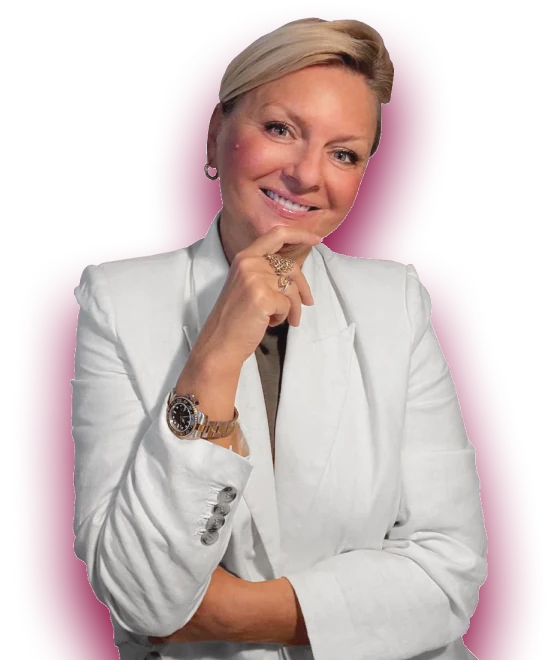
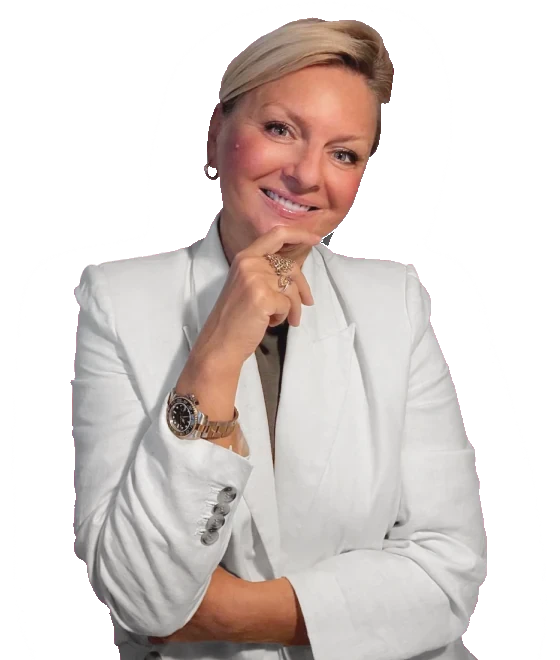
bf: палитра как у melrobbins.com
Жёлтый #FCE500 для кнопок и выделений, почти чёрный #212322 для шапки,
карточек и текста, тёплый #F4F4EE для подложек. Тариф 3 на жёлтом.
С фото в шапке убран малиновый ореол. Вёрстка и тексты без изменений.

Claude-Session: https://claude.ai/code/session_01AzVfGL1xKTqbXbbpfdZJSq

diff --git a/miniapps/bf/index.html b/miniapps/bf/index.html
@@ -4,7 +4,7 @@
 <meta charset="utf-8">
 <meta name="viewport" content="width=device-width, initial-scale=1, viewport-fit=cover">
 <meta name="robots" content="noindex, nofollow">
-<meta name="theme-color" content="#c2185b">
+<meta name="theme-color" content="#212322">
 <title>Чёрная пятница от Виолы Маро</title>
 <meta name="description" content="Интенсив и марафоны в записи по сниженной цене, доступ навсегда. 27–30 ноября.">
 <meta property="og:title" content="Чёрная пятница от Виолы Маро">
@@ -32,17 +32,17 @@
 
   :root {
     --fon: #ffffff;          /* фон страницы */
-    --text: #141414;         /* основной текст, 18 : 1 */
-    --muted: #5c5c5c;        /* второстепенный, 6,7 : 1 */
-    --pink: #ff1673;         /* только кнопки покупки и цены */
-    --pink-dark: #c2125a;    /* мелкий «розовый» текст на светлом, 5,2 : 1 */
-    --akcent: #c2125a;       /* ссылки и отметки (для страниц документов тоже) */
-    --mag1: #c2185b;         /* малиновый градиент: от */
-    --mag2: #8e0f3f;         /*                      до */
-    --black: #111111;        /* карточки программ */
-    --soft: #f4f4f4;         /* подложки отзывов, окна */
-    --line: #e6e6e6;         /* тонкие линии */
-    --wine: #ff1673; --wine-text: #ffffff;
+    --text: #212322;         /* основной текст (палитра melrobbins.com) */
+    --muted: #535353;        /* второстепенный */
+    --pink: #fce500;         /* жёлтый акцент: кнопки, выделения */
+    --pink-dark: #212322;    /* мелкий акцентный текст и рамки фокуса */
+    --akcent: #212322;       /* ссылки и отметки (для страниц документов тоже) */
+    --mag1: #212322;         /* тёмная шапка и блоки */
+    --mag2: #212322;
+    --black: #212322;        /* карточки программ */
+    --soft: #f4f4ee;         /* тёплые подложки: отзывы, окна, тарифы */
+    --line: #e6e6e1;         /* тонкие линии */
+    --wine: #fce500; --wine-text: #212322;
     --r: 28px;               /* скругление карточек */
     --gap: 40px;             /* отступ между блоками, телефон */
     --prata: "Unbounded", "Manrope", system-ui, sans-serif;   /* заголовки */
@@ -85,15 +85,15 @@
   .btn {
     display: flex; align-items: center; justify-content: center; text-align: center;
     width: 100%; max-width: 26rem; min-height: 56px; padding: .8rem 1.6rem;
-    background: var(--pink); color: #fff; text-decoration: none; border: 0; border-radius: 999px;
+    background: var(--pink); color: var(--text); text-decoration: none; border: 0; border-radius: 999px;
     font-family: var(--golos); font-weight: 800; font-size: 19px; line-height: 1.2; cursor: pointer;
   }
-  .btn:hover { background: #e8005f; }
-  .btn-dark { background: var(--black); }
-  .btn-dark:hover { background: #2a2a2a; }
+  .btn:hover { background: #fcee22; }
+  .btn-dark { background: var(--black); color: #fff; }
+  .btn-dark:hover { background: #404241; }
   .btn.off { background: #ececec; color: #4d4d4d; cursor: default; }
   /* неактивная кнопка оплаты: та же форма, розовый на 35%, не нажимается */
-  .btn.btn-wait, .btn.btn-wait:hover { background: rgba(255, 22, 115, .35); color: #fff; cursor: default; white-space: nowrap; padding-left: 1rem; padding-right: 1rem; }
+  .btn.btn-wait, .btn.btn-wait:hover { background: #fdf3a6; color: #404241; cursor: default; white-space: nowrap; padding-left: 1rem; padding-right: 1rem; }
   @media (max-width: 420px) { .btn.btn-long { font-size: 15px; } }
 
   /* «Подробнее о программе»: белая таблетка с чёрным кругом и стрелкой справа */
@@ -109,8 +109,8 @@
   .more:hover { border-color: #d6d6d6; }
   .on-light .more { border-color: var(--black); }
 
-  /* 1. шапка: малиновый ровный градиент, фото справа */
-  .hero { background: linear-gradient(135deg, var(--mag1), var(--mag2)); color: #fff; }
+  /* 1. шапка: тёмная, фото справа */
+  .hero { background: var(--mag1); color: #fff; }
   .hero-in { display: grid; grid-template-columns: 1fr; padding-top: 40px; }
   .hero-text { padding-bottom: 8px; }
   .hero .lead { font-size: 1.15rem; font-weight: 600; margin-top: 1.1rem; }
@@ -154,8 +154,8 @@
   .price { margin-top: 1.2rem; }
   .p-old { color: var(--muted); font-size: 1.02rem; display: flex; align-items: baseline; gap: .6rem; }
   .p-old s { text-decoration-thickness: 1.5px; }
-  .p-pct { font-weight: 800; color: var(--pink-dark); }
-  .p-new { font-family: var(--prata); font-weight: 700; color: var(--pink); font-size: clamp(2.4rem, 10vw, 3.2rem); line-height: 1.05; margin-top: .15rem; white-space: nowrap; }
+  .p-pct { font-weight: 800; color: var(--text); background: var(--pink); padding: 0 .3em; border-radius: 4px; }
+  .p-new { font-family: var(--prata); font-weight: 700; color: var(--text); font-size: clamp(2.4rem, 10vw, 3.2rem); line-height: 1.05; margin-top: .15rem; white-space: nowrap; }
   .p-eur { color: var(--muted); font-size: .98rem; margin-top: .3rem; }
   .eur-link { font: inherit; color: inherit; background: none; border: 0; padding: 10px 0; margin: -10px 0; min-height: 44px; text-align: left; cursor: default; }
   body.sale .eur-link { cursor: pointer; text-decoration: underline; text-underline-offset: .18em; }
@@ -193,11 +193,11 @@
   .plates { display: flex; flex-wrap: wrap; gap: 6px; margin: calc(12px - .55rem) 0 16px; padding: 0; list-style: none; }
   .plates li { border: 1px solid rgba(255, 255, 255, .25); border-radius: 6px; padding: 4px 10px; font-size: 14.5px; font-weight: 400; line-height: 1.35; color: #ededed; max-width: none !important; }
 
-  /* тариф 3: блок «Всё вместе» на малиновом */
-  .all { margin-top: var(--gap); background: linear-gradient(135deg, var(--mag1), var(--mag2)); color: #fff; border-radius: var(--r); padding: 28px 16px 16px; scroll-margin-top: 12px; }
+  /* тариф 3: блок «Всё вместе» на жёлтом */
+  .all { margin-top: var(--gap); background: var(--pink); color: var(--text); border-radius: var(--r); padding: 28px 16px 16px; scroll-margin-top: 12px; }
   @media (min-width: 768px) { .all { padding: 44px 36px 36px; } }
-  .all > .t-label .t-no { color: #fff; }
-  .all .pill-light { background: #fff; color: var(--mag2); }
+  .all > .t-label .t-no { color: var(--text); }
+  .all .pill-light { background: var(--text); color: #fff; }
   .all h2 { margin: .2rem 0 .4rem; }
   .all .all-name { font-weight: 700; font-size: 1.1rem; }
   .all-card { background: #fff; color: var(--text); border-radius: var(--r); padding: 20px; margin-top: 1.4rem; }
@@ -213,7 +213,7 @@
   .inside-h { font-size: .95rem; font-weight: 600; color: var(--muted); margin-bottom: .2rem; }
   .inside li { display: grid; grid-template-columns: 2.4rem 1fr; gap: .8rem; align-items: baseline; padding: .45rem 0; border-top: 1px solid #ece6df; font-size: 17px; line-height: 1.35; }
   .inside li:first-child { border-top: 0; }
-  .inside li b { font-family: var(--prata); font-weight: 700; font-size: 24px; line-height: 1.1; color: #6e1230; text-align: right; }
+  .inside li b { font-family: var(--prata); font-weight: 700; font-size: 24px; line-height: 1.1; color: var(--text); text-align: right; }
   .opens { font-weight: 800; font-size: 1.08rem; }
 
 
@@ -350,8 +350,8 @@
   .bar-t .timer { font-weight: 800; font-size: 1.12rem; white-space: nowrap; }
   .bar .btn { width: auto; min-height: 52px; padding: .6rem 1.3rem; font-size: 1rem; flex: none; }
   /* мелкий белый текст на розовом — только на тёмном розовом (контраст 5,2 : 1) */
-  .btn-sm { background: var(--pink-dark); }
-  .btn-sm:hover { background: #a10e4a; }
+  .btn-sm { background: var(--pink); color: var(--text); }
+  .btn-sm:hover { background: #fcee22; }
   @media (max-width: 400px) {
     .bar { padding-left: 14px; padding-right: 14px; }
     .bar-in { gap: .75rem; }
@@ -388,7 +388,7 @@
       <a class="btn" href="#tarif-1">Выбрать программу</a>
     </div>
     <!-- Фото Виолы с её страницы violamaro.com/audio-therapy (настоящее, не сгенерированное) -->
-    <figure class="hero-photo"><img src="img/viola.webp" alt="Виола Маро" width="560" height="660" fetchpriority="high"></figure>
+    <figure class="hero-photo"><img src="img/viola.webp?v=2" alt="Виола Маро" width="560" height="660" fetchpriority="high"></figure>
   </div>
 </header>
 
